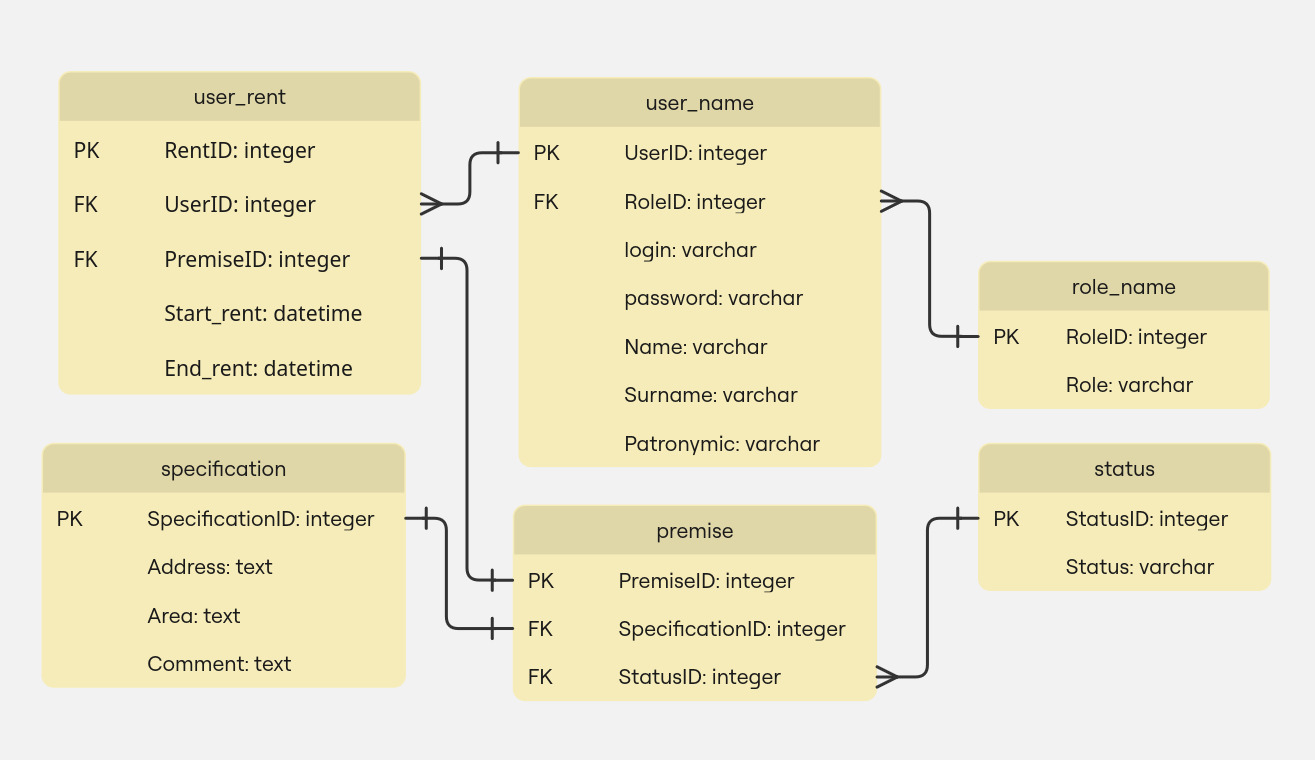
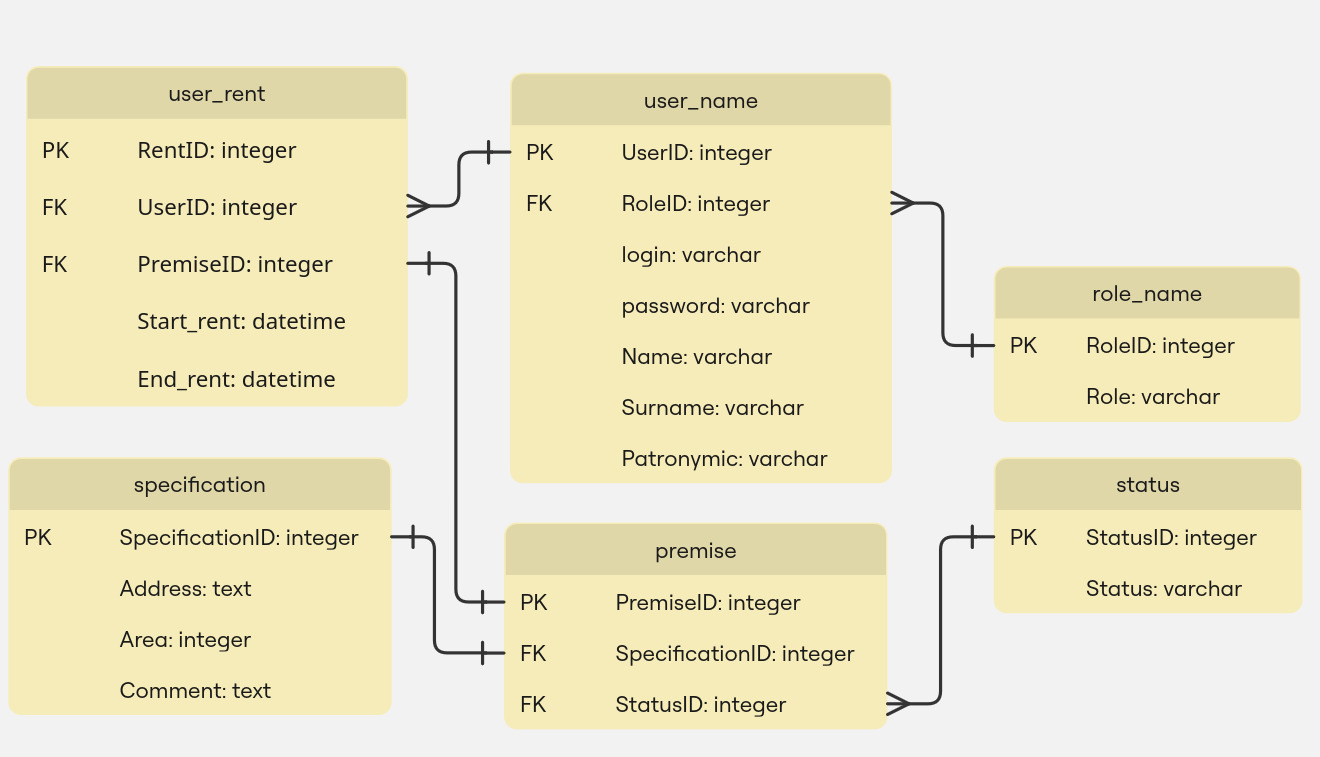
v3.006

diff --git a/src/repositories/list_data.c b/src/repositories/list_data.c
@@ -1,0 +1,35 @@
+#include "../rentrack.h"
+
+enum ERR list_data(sqlite3 *db, int id){
+    sqlite3_stmt *stmt = NULL;
+    if (sqlite3_prepare_v2(db, "SELECT * FROM user_name WHERE UserID = ? LIMIT 1;", -1, &stmt, NULL) != SQLITE_OK){
+	fprintf(stderr, "SQLite error: %s\n", sqlite3_errmsg(db));
+	return ERROR;
+    }
+    if (sqlite3_bind_int(stmt, 1, id) != SQLITE_OK){
+	fprintf(stderr, "SQLite error: %s\n", sqlite3_errmsg(db));
+	sqlite3_finalize(stmt);
+	return ERROR;
+    }
+    if (sqlite3_step(stmt) == SQLITE_ROW){
+	printf("┏━━━━━━━━━┳━━━━━━━━━━━━┳━━━━━━━━━━━━━━━━━━┳━━━━━━━━━━━━━━━━━━┳━━━━━━━━━━━━━━━━━━━━┳━━━━━━━━━━━━━━━━━━┳━━━━━━━━━━━━━━━━━━┓\n");
+	printf("┃ %-8s┃  %-10s┃  %-16s┃  %-16s┃", "UserID", "Role", "login", "password");
+	printf("  %-18s┃  %-16s┃  %-16s┃\n", "Name", "Surname", "Patronymic");
+	printf("┣━━━━━━━━━╋━━━━━━━━━━━━╋━━━━━━━━━━━━━━━━━━╋━━━━━━━━━━━━━━━━━━╋━━━━━━━━━━━━━━━━━━━━╋━━━━━━━━━━━━━━━━━━╋━━━━━━━━━━━━━━━━━━┫\n");
+	printf("┃ %-6d  ┃  %-10s┃  %-16s┃  %-16s┃", sqlite3_column_int(stmt, 0), sqlite3_column_int(stmt, 1) == 1 ? "Tenant" : "Landlord", (char *)sqlite3_column_text(stmt, 2), (char *)sqlite3_column_text(stmt, 3));
+	printf("  %-18s┃  %-16s┃  %-16s┃\n", (char *)sqlite3_column_text(stmt, 4), (char *)sqlite3_column_text(stmt, 5), (char *)sqlite3_column_text(stmt, 6));
+	printf("┗━━━━━━━━━┻━━━━━━━━━━━━┻━━━━━━━━━━━━━━━━━━┻━━━━━━━━━━━━━━━━━━┻━━━━━━━━━━━━━━━━━━━━┻━━━━━━━━━━━━━━━━━━┻━━━━━━━━━━━━━━━━━━┛\n");
+	sqlite3_finalize(stmt);
+	return OK;
+	}
+    else if (sqlite3_step(stmt) == SQLITE_DONE){
+	sqlite3_finalize(stmt);
+	printf("ID does not exist\n");
+	return ERROR;
+    }
+    else {
+	fprintf(stderr, "ERROR: %s\n", sqlite3_errmsg(db));
+	sqlite3_finalize(stmt);
+	return ERROR;
+    }
+}

diff --git a/src/rentrack.h b/src/rentrack.h
@@ -1,52 +1,28 @@
 #ifndef RENTRACK_H
 #define RENTRACK_H
+#define SECRET_KEY "very_secret_key"
 
 #include <stdio.h>
 #include <sqlite3.h>
 #include <string.h>
 #include <stddef.h>
 
-#define SECRET_KEY "very_secret_key"
-
 enum ERR { OK, ERROR };
 enum RES { INPUT_OK, INPUT_ERROR, INPUT_TOO_LONG };
 
-enum ERR encrypt(){
-    char key[64];
-    const char *secret_key = SECRET_KEY;
-    printf("Enter a Secret Key\n");
-    printf("> ");
-    if (fgets(key, 64 * sizeof(char), stdin) == NULL) return ERROR;
-    key[strcspn(key, "\n")] = '\0';
-    for(int i = 0; i < strlen(key); i++){
-	if (*(key + i) != *(secret_key + i)) return ERROR;
-    }
-    return OK;
-}
-
-enum RES read_line(const char *prompt, char *buf, size_t size){
-    printf("%s", prompt);
-
-    if (fgets(buf, size, stdin) == NULL) return INPUT_ERROR;
-
-    char *letter = strchr(buf, '\n');
-    if (letter != NULL) *letter = '\0';
-    else{
-	int ch = getchar();
-	if (ch != '\n' && ch != EOF){
-	    while ((ch = getchar()) != '\n' && ch != EOF)
-		;
-	    return INPUT_TOO_LONG;
-	}
-    }
-    if (*buf == '\0') return INPUT_ERROR;
-    return INPUT_OK;
-}
-
-enum ERR string_check(const char *s1, const char *s2, int x){
-    for (int i = 0; i < x; i++)
-	if (*(s1+i) != *(s2+i)) return ERROR;
-    return OK;
-}
+sqlite3 *setupDB();
+void menu(sqlite3* db);
+enum ERR encrypt();
+enum RES read_line(const char *prompt, char *buf, size_t size);
+enum ERR string_check(const char *s1, const char *s2, int x);
+enum ERR add_premise(sqlite3* db);
+enum ERR auth_repo(sqlite3 *db, const char *login, const char *password, int* id, int* role);
+enum ERR landlord_registration_repo(sqlite3 *db, char *name, char *surname,char *patronymic, char *login, char *password);
+enum ERR list_data(sqlite3 *db, int id);
+enum ERR tenant_registration_repo(sqlite3* db, char * name, char* surname, char* patronymic, char* login, char* password);
+enum ERR landlord_registration(sqlite3 *db);
+enum ERR tenant_registration(sqlite3* db);
+enum ERR registration(sqlite3* db);
+enum ERR auth(sqlite3 *db);
 
 #endif

diff --git a/src/services/landlord_registration.c b/src/services/landlord_registration.c
@@ -1,7 +1,4 @@
-#include <stdio.h>
-#include <sqlite3.h>
 #include "../rentrack.h"
-#include "../repositories/landlord_registration_repo.c"
 
 enum ERR landlord_registration(sqlite3 *db){
     char key[256];
@@ -9,11 +6,11 @@ enum ERR landlord_registration(sqlite3 *db){
     char name[32], surname[32], patronymic[32], password[32], login[32];
     if ((rc = encrypt()) != OK) return ERROR;
     while (1){
-	if (read_line("\nEnter your name (maximum 32): ", name, sizeof name) != INPUT_OK) continue;
-	if (read_line("\nEnter your surname (maximum 32): ", surname, sizeof surname) != INPUT_OK) continue;
-	if (read_line("\nEnter your patronymic, if you do not have print '-' (maximum 32): ", patronymic, sizeof patronymic) != INPUT_OK) continue;
-	if (read_line("\nEnter your login (maximum 32): ", login, sizeof login) != INPUT_OK) continue;
-	if (read_line("\nEnter your password (maximum 32): ", password, sizeof password) != INPUT_OK) continue;
+	if (read_line("\nEnter name: ", name, sizeof name) != INPUT_OK) continue;
+	if (read_line("\nEnter surname: ", surname, sizeof surname) != INPUT_OK) continue;
+	if (read_line("\nEnter patronymic, if you do not have print 'NULL': ", patronymic, sizeof patronymic) != INPUT_OK) continue;
+	if (read_line("\nEnter login: ", login, sizeof login) != INPUT_OK) continue;
+	if (read_line("\nEnter password: ", password, sizeof password) != INPUT_OK) continue;
 	break;
     }
     if (landlord_registration_repo(db, name, surname, patronymic, login, password) == ERROR) return ERROR;

diff --git a/src/services/tenant_registration.c b/src/services/tenant_registration.c
@@ -1,17 +1,13 @@
-#include <stddef.h>
-#include <stdio.h>
-#include <sqlite3.h>
 #include "../rentrack.h"
-#include "../repositories/tenant_registration_repo.c"
 
 enum ERR tenant_registration(sqlite3* db){
     char name[32], surname[32], patronymic[32], password[32], login[32];
     while (1){
-	if (read_line("\nEnter your name (maximum 32): ", name, sizeof name) != INPUT_OK) continue;
-	if (read_line("\nEnter your surname (maximum 32): ", surname, sizeof surname) != INPUT_OK) continue;
-	if (read_line("\nEnter your patronymic, if you do not have, print '-' (maximum 32): ", patronymic, sizeof patronymic) != INPUT_OK) continue;
-	if (read_line("\nEnter your login (maximum 32): ", login, sizeof login) != INPUT_OK) continue;
-	if (read_line("\nEnter your password (maximum 32): ", password, sizeof password) != INPUT_OK) continue;
+	if (read_line("\nEnter name: ", name, sizeof name) != INPUT_OK) continue;
+	if (read_line("\nEnter surname: ", surname, sizeof surname) != INPUT_OK) continue;
+	if (read_line("\nEnter patronymic, if you do not have, print 'NULL': ", patronymic, sizeof patronymic) != INPUT_OK) continue;
+	if (read_line("\nEnter login: ", login, sizeof login) != INPUT_OK) continue;
+	if (read_line("\nEnter password: ", password, sizeof password) != INPUT_OK) continue;
 	break;
     }
     if (tenant_registration_repo(db, name, surname, patronymic, login, password) == ERROR) return ERROR;

diff --git a/src/auth.c b/src/auth.c
@@ -1,7 +1,4 @@
-#include <sqlite3.h>
 #include "rentrack.h"
-#include <stdio.h>
-#include "repositories/auth_repo.c"
 
 enum ERR auth(sqlite3 *db){
     char login[32];
@@ -21,14 +18,48 @@ enum ERR auth(sqlite3 *db){
     switch(role){
 	case 1:
 	    printf("[D]ata, [P]remise, [S]how availiable premise\n");
-	    printf("> %d%d", role, id);
+	    printf("> ");
+	    char input = getchar();
+	    while(getchar() != '\n')
+		;
+	    switch (input){
+		case 'D':
+		case 'd':
+		    list_data(db, id);
+		    break;
+	    }
 	    break;
 	case 2:
 	    printf("[A]dd, [D]elete, [U]pdate, [S]how data\n");
-	    printf("> %d%d", role, id);
+	    printf("> ");
+	    input = getchar();
+	    while(getchar() != '\n')
+		;
+	    switch (input){
+		case 'S':
+		case 's':
+		    list_data(db, id);
+		    break;
+		case 'A':
+		case 'a':
+		    printf("[P]remise, [U]ser\n");
+		    printf("> ");
+		    input = getchar();
+		    while(getchar() != '\n')
+			;
+		    switch (input){
+			case 'P':
+			case 'p':
+			    add_premise(db);
+			    break;
+			case 'U':
+			case 'u':
+			    if (registration(db) == ERROR) printf("\nError corrupted\n");
+			    break;
+		    break;
+		    }
+	    }
 	    break;
-	default:
-	    printf("good");
     }
     return OK;
 }

diff --git a/src/services/utils.c b/src/services/utils.c
@@ -1,0 +1,40 @@
+#include "../rentrack.h"
+
+enum ERR encrypt(){
+    char key[64];
+    const char *secret_key = SECRET_KEY;
+    printf("Enter a Secret Key\n");
+    printf("> ");
+    if (fgets(key, 64 * sizeof(char), stdin) == NULL) return ERROR;
+    key[strcspn(key, "\n")] = '\0';
+    for(int i = 0; i < strlen(key); i++){
+	if (*(key + i) != *(secret_key + i)) return ERROR;
+    }
+    return OK;
+}
+
+enum RES read_line(const char *prompt, char *buf, size_t size){
+    printf("%s", prompt);
+
+    if (fgets(buf, size, stdin) == NULL) return INPUT_ERROR;
+
+    char *letter = strchr(buf, '\n');
+    if (letter != NULL) *letter = '\0';
+    else{
+	int ch = getchar();
+	if (ch != '\n' && ch != EOF){
+	    while ((ch = getchar()) != '\n' && ch != EOF)
+		;
+	    return INPUT_TOO_LONG;
+	}
+    }
+    if (*buf == '\0') return INPUT_ERROR;
+    return INPUT_OK;
+}
+
+enum ERR string_check(const char *s1, const char *s2, int x){
+    for (int i = 0; i < x; i++)
+	if (*(s1+i) != *(s2+i)) return ERROR;
+    return OK;
+}
+

diff --git a/src/repositories/landlord_registration_repo.c b/src/repositories/landlord_registration_repo.c
@@ -1,7 +1,26 @@
-#include <stdio.h>
-#include <sqlite3.h>
 #include "../rentrack.h"
-#include "../services/landlord_registration_check.c"
+
+enum ERR landlord_registration_check(sqlite3 *db, char *login){
+    sqlite3_stmt *stmt = NULL;
+    int rc;
+    if ((rc = sqlite3_prepare_v2(db, "SELECT 1 FROM user_name WHERE login = ?;", -1, &stmt, NULL)) != SQLITE_OK)
+	fprintf(stderr, "SQLite error: %s\n", sqlite3_errmsg(db));
+    if ((rc = sqlite3_bind_text(stmt, 1, login, -1, SQLITE_TRANSIENT)) != SQLITE_OK)
+	fprintf(stderr, "SQLite error: %s\n", sqlite3_errmsg(db));
+    rc = sqlite3_step(stmt);
+    if (rc == SQLITE_ROW){
+	printf("Login is not avaliable\n");
+	return ERROR;
+    }
+    else if (rc == SQLITE_DONE){
+	printf("Registration complete!\n");
+	return OK;
+    }
+    else {
+	fprintf(stderr, "ERROR: %s\n", sqlite3_errmsg(db));
+	return ERROR;
+    }
+}
 
 enum ERR landlord_registration_repo(sqlite3 *db, char *name, char *surname,char *patronymic, char *login, char *password){
     enum ERR res;

diff --git a/src/repositories/tenant_registration_repo.c b/src/repositories/tenant_registration_repo.c
@@ -1,7 +1,25 @@
-#include <stdio.h>
-#include <sqlite3.h>
 #include "../rentrack.h"
-#include "../services/tenant_registration_check.c"
+
+enum ERR tenant_registration_check(sqlite3* db, char* login){
+    sqlite3_stmt *stmt = NULL;
+    int rc = sqlite3_prepare_v2(db, "SELECT 1 FROM user_name WHERE login = ? LIMIT 1;", -1, &stmt, NULL);
+    if (rc != SQLITE_OK) fprintf(stderr, "ERROR: %s\n", sqlite3_errmsg(db));
+    rc = sqlite3_bind_text(stmt, 1, login, -1, SQLITE_TRANSIENT);
+    if (rc != SQLITE_OK) fprintf(stderr, "ERROR: %s\n", sqlite3_errmsg(db));
+    rc = sqlite3_step(stmt);
+    if (rc == SQLITE_ROW){
+	printf("Login is not avaliable\n");
+	return ERROR;
+    }
+    else if (rc == SQLITE_DONE){
+	printf("Registration complete!\n");
+	return OK;
+    }
+    else {
+	fprintf(stderr, "ERROR: %s\n", sqlite3_errmsg(db));
+	return ERROR;
+    }
+}
 
 enum ERR tenant_registration_repo(sqlite3* db, char * name, char* surname, char* patronymic, char* login, char* password){
     enum ERR res;

diff --git a/src/registration.c b/src/registration.c
@@ -1,8 +1,4 @@
-#include <stdio.h>
-#include <sqlite3.h>
 #include "rentrack.h"
-#include "services/tenant_registration.c"
-#include "services/landlord_registration.c"
 
 enum ERR registration(sqlite3* db){
     enum ERR res;

diff --git a/src/repositories/auth_repo.c b/src/repositories/auth_repo.c
@@ -1,5 +1,3 @@
-#include <stdio.h>
-#include <sqlite3.h>
 #include "../rentrack.h"
 
 enum ERR auth_repo(sqlite3 *db, const char *login, const char *password, int* id, int* role){

diff --git a/src/main.c b/src/main.c
@@ -1,7 +1,4 @@
-#include <stdio.h>
-#include <sqlite3.h>
-#include "database/database.c"
-#include "menu.c"
+#include "rentrack.h"
 
 int main(){
     sqlite3 *db = setupDB();

diff --git a/src/database/database.c b/src/database/database.c
@@ -1,5 +1,4 @@
-#include <sqlite3.h>
-#include <stdio.h>
+#include "../rentrack.h"
 sqlite3 *setupDB(){
     char *errMsg = NULL;
     sqlite3 *db = NULL;
